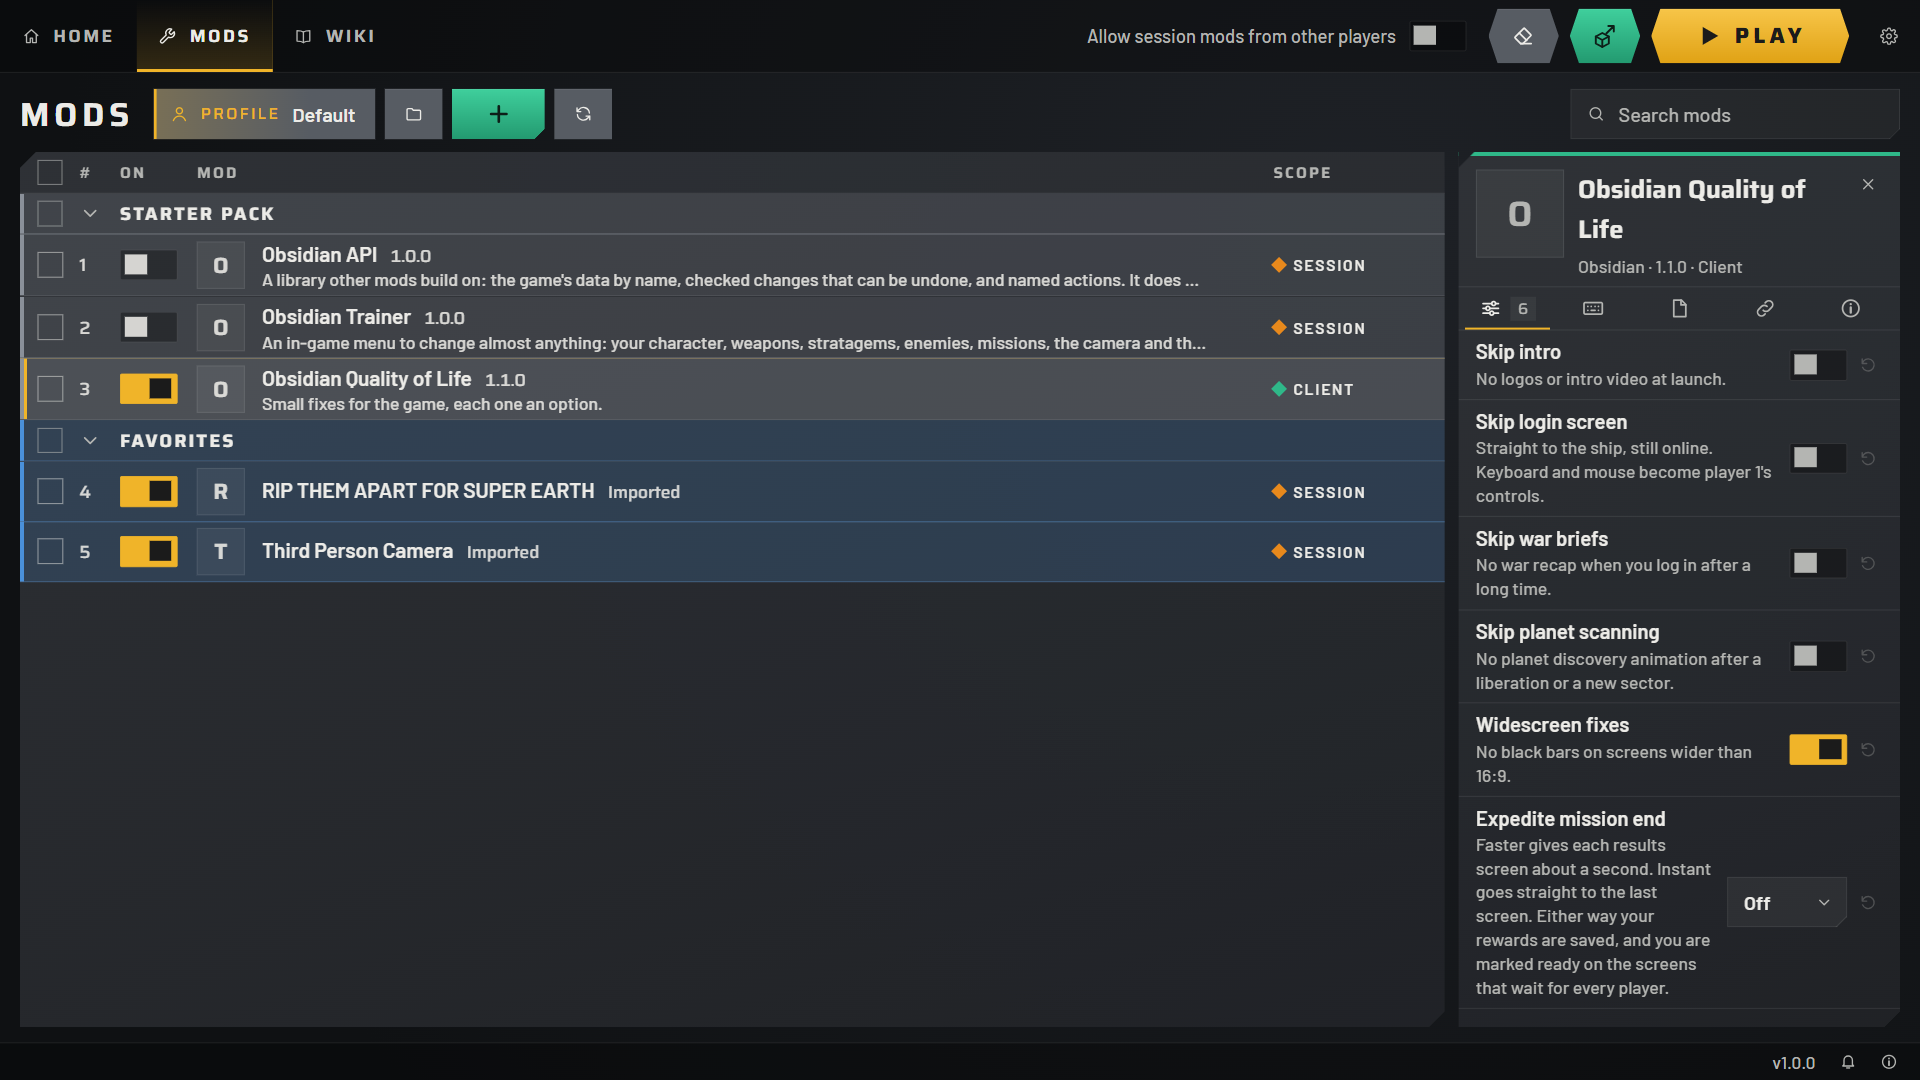
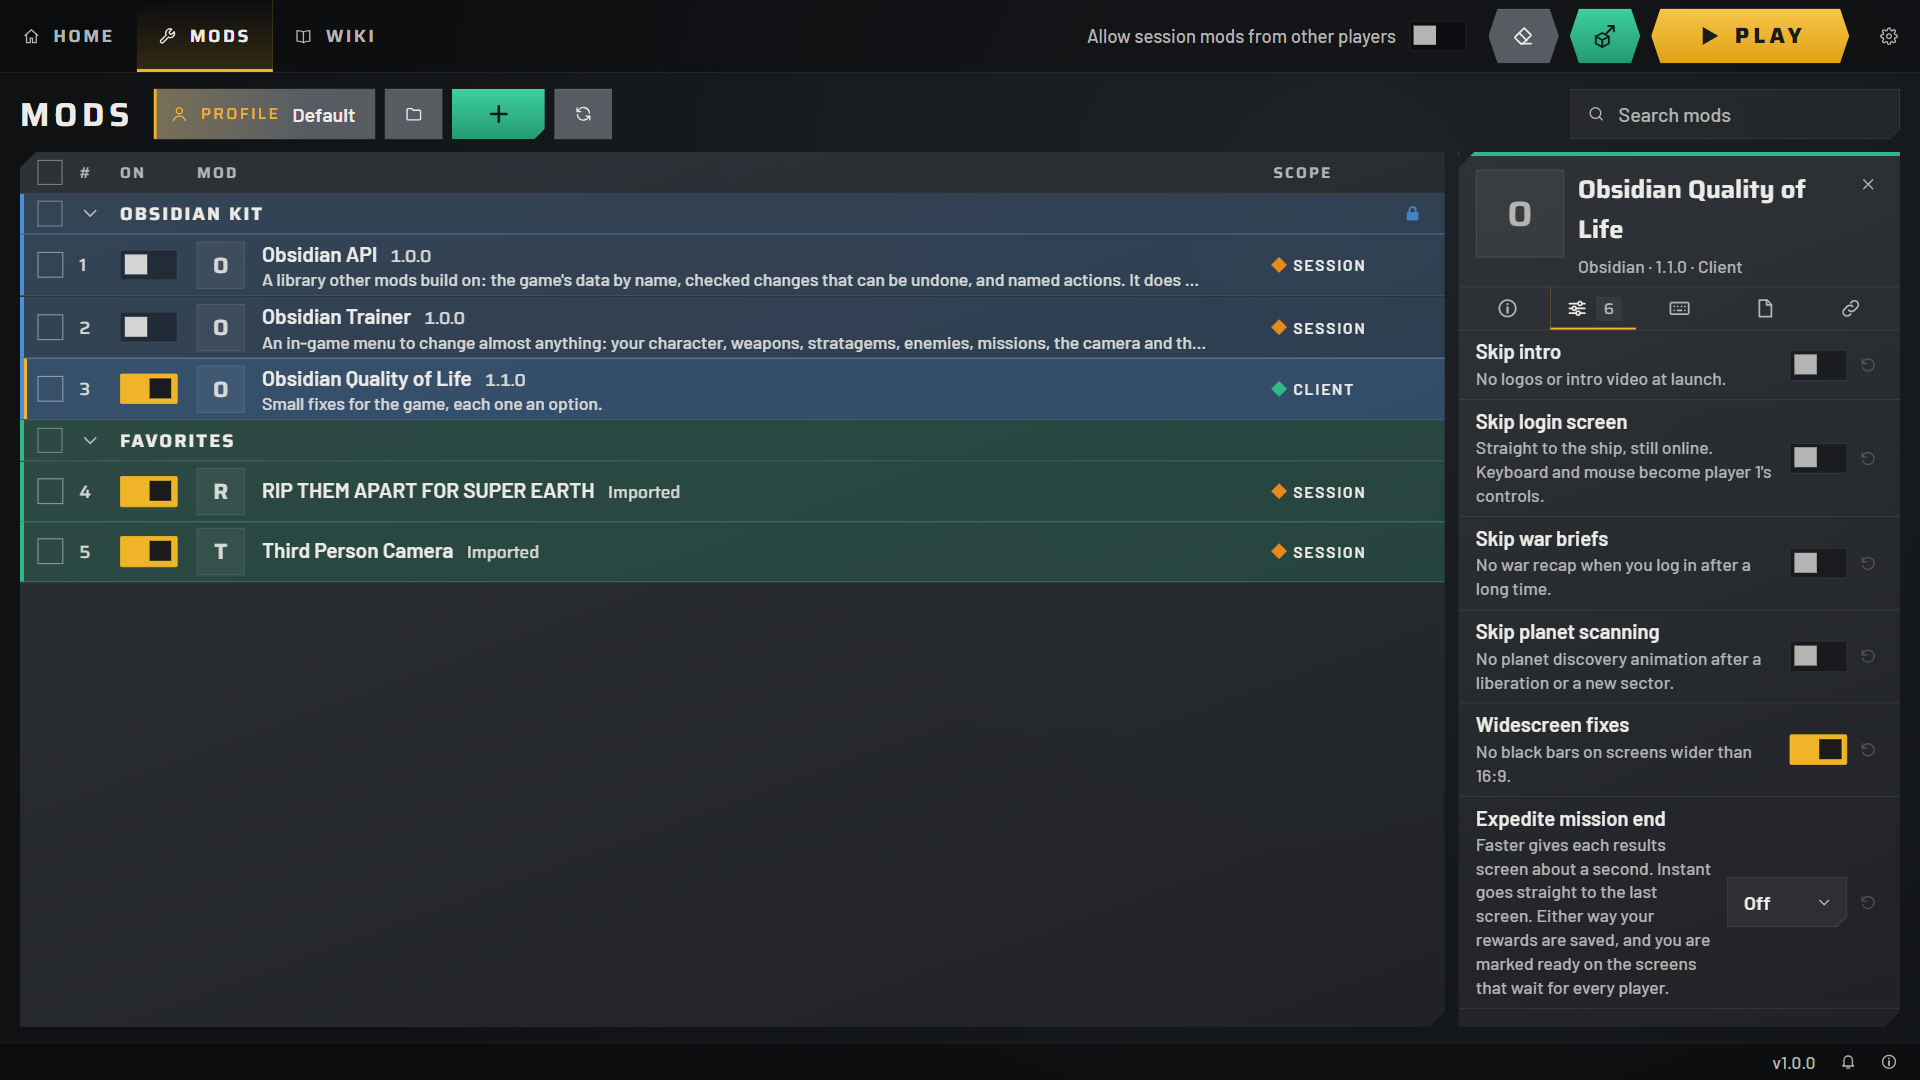
feat: the starter pack becomes the Obsidian Kit, blue and locked
The folder is now called Obsidian Kit, starts blue and locked, and can be
unlocked like any other. Settings, the wiki and the README use the name
too. The marker file keeps its old name, as a new one would seed every
existing data folder again.

Changed region(s): [[0.75, 0.275, 0.8438, 0.3056], [0.0625, 0.1833, 0.1562, 0.2139], [0.9062, 0.275, 0.9688, 0.3056]]

diff --git a/app/src/test/layout.test.ts b/app/src/test/layout.test.ts
@@ -53,7 +53,7 @@ describe("folder layout", () => {
     expect(dropSpot(t, shown, 1, "f1", ["d"])).toEqual({ folder: null, index: 2 });
   });
 
-  it("treats the starter pack folder like any other", () => {
+  it("treats the Obsidian Kit folder, once unlocked, like any other", () => {
     // [obsidian: q] a
     const t = toTree([e("q", "obsidian"), e("a")], [F("obsidian")]);
     expect(flatten(toEnd(t, ["a"], "top"))).toEqual(["a", "q"]);

diff --git a/core/src/starter.rs b/core/src/starter.rs
@@ -1,6 +1,7 @@
-//! The starter pack: the mods that come with Obsidian. They are mods like any other, which the
-//! player can turn off, move, update from their own repositories and delete, so they go into a data
-//! folder once, the first time it is used, and after that only when the player asks (`restore`).
+//! The starter pack, which the player sees as the Obsidian Kit: the mods that come with Obsidian. They
+//! are mods like any other, which the player can turn off, move, update from their own repositories
+//! and delete, so they go into a data folder once, the first time it is used, and after that only
+//! when the player asks (`restore`).
 
 use std::path::Path;
 
@@ -19,7 +20,7 @@ const FOLDER: &str = "obsidian";
 const SEEDED: &str = "starter-pack.txt";
 
 fn folder() -> Folder {
-    Folder { id: FOLDER.into(), name: "STARTER PACK".into(), color: "#8a9099".into(), collapsed: true, locked: false }
+    Folder { id: FOLDER.into(), name: "Obsidian Kit".into(), color: "#4a90d9".into(), collapsed: true, locked: true }
 }
 
 /// Copies the shipped mods into the library. A newer copy, from an update, stays.
@@ -134,7 +135,7 @@ mod tests {
     }
     fn folders_ok(p: &Profile) {
         assert_eq!(p.folders, [folder()]);
-        assert_eq!((p.folders[0].name.as_str(), p.folders[0].color.as_str(), p.folders[0].collapsed, p.folders[0].locked), ("STARTER PACK", "#8a9099", true, false));
+        assert_eq!((p.folders[0].name.as_str(), p.folders[0].color.as_str(), p.folders[0].collapsed, p.folders[0].locked), ("Obsidian Kit", "#4a90d9", true, true));
         assert!(p.mods.iter().take(3).all(|m| m.folder.as_deref() == Some(FOLDER)));
     }
     /// The values the game gets for the Quality of Life mod.
@@ -170,7 +171,9 @@ mod tests {
         lib.install(&stage(t.path(), "obsidian.api", "9.0.0", "")).unwrap();
         let mut p = Profile::load(t.path()).unwrap();
         p.sync(&lib).unwrap();
-        assert_eq!(p.delete_folder(FOLDER), ["obsidian.api", "obsidian.qol"]);
+        assert!(p.delete_folder(FOLDER).is_empty() && p.folders.len() == 1, "the folder starts locked");
+        p.edit_folder(FOLDER, None, None, None, Some(false)).unwrap();
+        assert_eq!(p.delete_folder(FOLDER), ["obsidian.api", "obsidian.qol"], "and unlocks like any other");
         p.set_enabled(ON, false).unwrap();
         p.save(t.path()).unwrap();
 
@@ -195,9 +198,8 @@ mod tests {
         p.set_order(&["my.mod".into(), "my.other".into()]);
         p.set_enabled("my.mod", true).unwrap();
         p.switch(&lib, "obsidian.trainer", true).unwrap();
-        p.edit_folder(FOLDER, Some("Mine"), Some("#ffffff"), Some(false), None).unwrap();
+        p.edit_folder(FOLDER, Some("Mine"), Some("#ffffff"), Some(false), Some(false)).unwrap();
         p.arrange(&[], &[("my.other".into(), Some(FOLDER.into()))]);
-        p.edit_folder(FOLDER, None, None, None, Some(true)).unwrap();
         p.options.insert(ON.into(), [("skip_intro".to_string(), json!(true))].into());
         p.options.insert("my.mod".into(), [("speed".to_string(), json!(3))].into());
         p.keys.insert("obsidian.trainer".into(), [("open".to_string(), "f9".to_string())].into());

diff --git a/core/src/main.rs b/core/src/main.rs
@@ -58,7 +58,7 @@ enum Command {
     Set { id: String, option: String, value: String },
     /// Delete a mod from the library
     Remove { id: String },
-    /// Put the starter pack back as it came, in the active profile
+    /// Put the Obsidian Kit back as it came, in the active profile
     RestoreStarter,
     /// Set a mod key, for example: obsidian key author.mod toggle f9
     Key { id: String, keybind: String, key: String },
@@ -299,7 +299,7 @@ fn run(cli: Cli) -> Result<()> {
         }
         Command::RestoreStarter => {
             starter::restore(&lib, &mut profile)?;
-            live_change(&profile, &data, &lib, &game()?, "The starter pack is back as it came")?;
+            live_change(&profile, &data, &lib, &game()?, "The Obsidian Kit is back as it came")?;
         }
         Command::Key { id, keybind, key } => {
             obsidian_core::edit::set_key(&lib, &mut profile, &id, &keybind, Some(&key))?;

diff --git a/core/src/error.rs b/core/src/error.rs
@@ -42,7 +42,7 @@ pub enum ObsidianError {
     ReservedResource { mod_id: String, name: String },
     #[error("Obsidian Loader files were not found (looked in {0})")]
     LoaderMissing(String),
-    #[error("this copy of Obsidian has no starter pack to restore")]
+    #[error("this copy of Obsidian has no Obsidian Kit to restore")]
     NoStarterPack,
     #[error("{mod_id} has no keybind {keybind}")]
     UnknownKeybind { mod_id: String, keybind: String },

diff --git a/README.md b/README.md
@@ -52,7 +52,7 @@
 
 The mod library. Turn mods on and off, drag them into the load order, sort them into folders, and change options and keys for each mod. Conflicts show which mods change the same thing, and profiles keep separate sets of mods and settings. Mods that name a GitHub repository update from inside the app, and old mods that replace whole game files import like any other.
 
-<img src="assets/readme/mods.png" alt="The Mods tab: the STARTER PACK and Favorites folders, each mod with a switch, a place in the load order and a scope, and the options of Obsidian Quality of Life on the right" width="100%">
+<img src="assets/readme/mods.png" alt="The Mods tab: the Obsidian Kit and Favorites folders, each mod with a switch, a place in the load order and a scope, and the options of Obsidian Quality of Life on the right" width="100%">
 
 ### 📖 Wiki
 
@@ -60,9 +60,9 @@ Guides inside the app, for players and for mod authors. They cover adding mods, 
 
 <img src="assets/readme/wiki.png" alt="The Wiki tab: search and the guides by group on the left, How Obsidian Works open in the middle, and the headings of the page on the right" width="100%">
 
-### 🎁 Starter Pack
+### 🎁 Obsidian Kit
 
-Three mods come with Obsidian, in the STARTER PACK folder. Obsidian Quality of Life starts on with only the widescreen fixes enabled, and the other two stay off until you turn them on. They're mods like any other: each has its own repository and updates from GitHub, and you can move or delete them. **Restore starter pack** in Settings puts everything back.
+Three mods come with Obsidian, in the Obsidian Kit folder. Obsidian Quality of Life starts on with only the widescreen fixes enabled, and the other two stay off until you turn them on. They're mods like any other: each has its own repository and updates from GitHub, and you can move or delete them. **Restore Obsidian Kit** in Settings puts everything back.
 
 #### [Obsidian Quality of Life](https://github.com/Alomare/ObsidianQoL)
 
@@ -169,6 +169,6 @@ Bug reports and help on the Discord count as much as code. The Wiki pages are Ma
 
 ## License
 
-Copyright (C) 2026 Alomare. Licensed under the [Apache License 2.0](LICENSE). The starter pack mods are under the MIT License, in their own repositories.
+Copyright (C) 2026 Alomare. Licensed under the [Apache License 2.0](LICENSE). The Obsidian Kit mods are under the MIT License, in their own repositories.
 
 Only builds from this repository's GitHub releases are official Obsidian. The license gives no right to use the Obsidian name for other builds.

diff --git a/app/src/wiki/pt-BR/12-adding-mods.md b/app/src/wiki/pt-BR/12-adding-mods.md
@@ -37,11 +37,11 @@ O Obsidian só fala com o GitHub quando você clica, e só instala uma versão m
 
 Clique com o botão direito num mod e escolha **Remover**, ou marque vários mods e use **Remover** na barra acima da lista.
 
-## Pacote inicial {#starter-pack}
+## Obsidian Kit
 
-Três mods vêm com o Obsidian, na pasta **STARTER PACK**, no topo da lista: Obsidian API, [Obsidian Trainer](wiki:trainer) e Obsidian Qualidade de Vida. O Qualidade de Vida começa ligado, só com as correções para tela larga ativas. Os outros dois ficam desligados até você ligar.
+Três mods vêm com o Obsidian, na pasta **Obsidian Kit**, no topo da lista: Obsidian API, [Obsidian Trainer](wiki:trainer) e Obsidian Qualidade de Vida. O Qualidade de Vida começa ligado, só com as correções para tela larga ativas. Os outros dois ficam desligados até você ligar.
 
-Eles são mods como quaisquer outros. Você pode mover ou remover os mods, renomear ou apagar a pasta, e atualizar os mods pelo GitHub. Para deixar tudo como era, use **Restaurar pacote inicial** em [Configurações](app:settings). Isso traz de volta os mods apagados e a pasta, e volta as configurações deles ao padrão no perfil ativo.
+Eles são mods como quaisquer outros: você pode ligar, desligar, remover e atualizar os mods pelo GitHub. A pasta começa trancada, então fica onde está. Clique no cadeado para destrancar, e aí você pode mover os mods e renomear ou apagar a pasta. Para deixar tudo como era, use **Restaurar Obsidian Kit** em [Configurações](app:settings). Isso traz de volta os mods apagados e a pasta, e volta as configurações deles ao padrão no perfil ativo.
 
 ## Dependências {#dependencies}
 

diff --git a/app/src/wiki/12-adding-mods.md b/app/src/wiki/12-adding-mods.md
@@ -37,11 +37,11 @@ Obsidian only asks GitHub when you click, and it only installs a higher version 
 
 Right-click a mod and choose **Remove**, or check several mods and use **Remove** in the bar above the list.
 
-## Starter pack
+## Obsidian Kit
 
-Three mods come with Obsidian, in the **STARTER PACK** folder at the top of the list: Obsidian API, [Obsidian Trainer](wiki:trainer) and Obsidian Quality of Life. Quality of Life starts on, with only the widescreen fixes enabled. The other two stay off until you turn them on.
+Three mods come with Obsidian, in the **Obsidian Kit** folder at the top of the list: Obsidian API, [Obsidian Trainer](wiki:trainer) and Obsidian Quality of Life. Quality of Life starts on, with only the widescreen fixes enabled. The other two stay off until you turn them on.
 
-They're mods like any other. You can move them, remove them, rename or delete the folder, and update them from GitHub. To put everything back, use **Restore starter pack** in [Settings](app:settings). It brings back deleted mods and the folder, and resets their settings in the active profile.
+They're mods like any other: you can turn them on or off, remove them and update them from GitHub. The folder starts locked, so it stays where it is. Click its padlock to unlock it, and then you can move the mods, or rename or delete the folder. To put everything back, use **Restore Obsidian Kit** in [Settings](app:settings). It brings back deleted mods and the folder, and resets their settings in the active profile.
 
 ## Dependencies
 

diff --git a/CONTRIBUTING.md b/CONTRIBUTING.md
@@ -20,7 +20,7 @@ On Linux you also need the [system packages Tauri lists](https://v2.tauri.app/st
 
 Some tests read your own game files and are skipped unless you point them at the game with `OBSIDIAN_GAME_DIR`. Game files are never committed.
 
-## The starter pack
+## The Obsidian Kit
 
 Obsidian API, Obsidian Trainer and Obsidian Quality of Life each have their own repository, under the MIT License. `bundled/` holds a copy of each one for the installer and the tests, so change a mod in its repository, not there. With the repositories cloned into `../Bundled`, `python tools/starter_pack.py` refreshes the copy from what they have committed.
 
@@ -36,4 +36,4 @@ Include the output of `obsidian status`, the file `%APPDATA%\Arrowhead\Helldiver
 
 ## License
 
-By contributing, you agree that your contribution is licensed under the [Apache License 2.0](LICENSE), the same as the rest of Obsidian. The starter pack repositories are under the MIT License.
+By contributing, you agree that your contribution is licensed under the [Apache License 2.0](LICENSE), the same as the rest of Obsidian. The Obsidian Kit repositories are under the MIT License.

diff --git a/app/src/wiki/pt-BR/95-faq.md b/app/src/wiki/pt-BR/95-faq.md
@@ -38,7 +38,7 @@ O que está mais abaixo na lista ([Ordem de carregamento](wiki:load-order)).
 
 ### O que é o Obsidian Qualidade de Vida? {#what-is-obsidian-quality-of-life}
 
-Um mod de cliente que vem com o Obsidian: ele pula a abertura, a tela de login, os resumos da guerra e a varredura de planetas, tira as barras pretas em telas largas e pode acelerar ou pular as telas de resultado depois de uma missão. Cada correção é uma opção. Ele começa ligado, só com as correções para tela larga ativas; fica na pasta STARTER PACK, no topo da lista.
+Um mod de cliente que vem com o Obsidian: ele pula a abertura, a tela de login, os resumos da guerra e a varredura de planetas, tira as barras pretas em telas largas e pode acelerar ou pular as telas de resultado depois de uma missão. Cada correção é uma opção. Ele começa ligado, só com as correções para tela larga ativas; fica na pasta Obsidian Kit, no topo da lista.
 
 ## Criar mods {#making-mods}
 

diff --git a/app/src/wiki/95-faq.md b/app/src/wiki/95-faq.md
@@ -38,7 +38,7 @@ The one lower in the list ([Load order](wiki:load-order)).
 
 ### What is Obsidian Quality of Life?
 
-A client mod that comes with Obsidian: it skips the intro, the login screen, war briefs and planet scanning, removes the black bars on wide screens, and can speed up or skip the results screens after a mission. Each fix is an option. It starts on with only the widescreen fixes enabled; find it in the STARTER PACK folder at the top of the list.
+A client mod that comes with Obsidian: it skips the intro, the login screen, war briefs and planet scanning, removes the black bars on wide screens, and can speed up or skip the results screens after a mission. Each fix is an option. It starts on with only the widescreen fixes enabled; find it in the Obsidian Kit folder at the top of the list.
 
 ## Making mods
 

diff --git a/app/src/wiki/zh-CN/95-faq.md b/app/src/wiki/zh-CN/95-faq.md
@@ -38,7 +38,7 @@ Obsidian 在每次部署前备份存档文件夹，并保留最近 10 份（[部
 
 ### Obsidian 便利改进是什么？ {#what-is-obsidian-quality-of-life}
 
-Obsidian 自带的客户端模组：跳过开场、登录界面、战争简报和行星扫描，去掉宽屏上的黑边，还可以加快或跳过任务结束后的结算画面。每项改进都是一个选项。它默认启用，且只开启宽屏修正；位于列表顶部的 STARTER PACK 文件夹中。
+Obsidian 自带的客户端模组：跳过开场、登录界面、战争简报和行星扫描，去掉宽屏上的黑边，还可以加快或跳过任务结束后的结算画面。每项改进都是一个选项。它默认启用，且只开启宽屏修正；位于列表顶部的 Obsidian Kit 文件夹中。
 
 ## 制作模组 {#making-mods}
 
